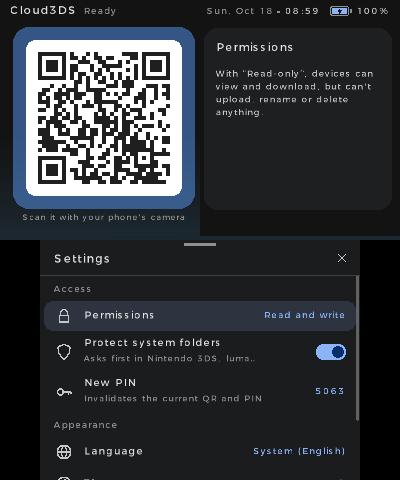
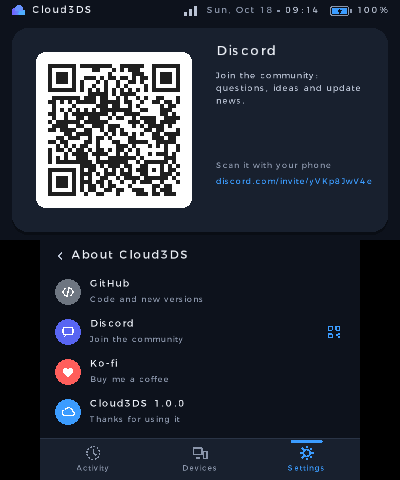
README: capturas y controles de la interfaz pulida
Capturas de la consola con el aspecto propio de Cloud3DS (inicio, subida en curso, actividad y «Acerca de» con su QR) y la tabla de controles con las pestañas.

diff --git a/README.md b/README.md
@@ -29,9 +29,9 @@ FTPD funciona, pero hay que instalar un cliente FTP, escribir la IP y el puerto 
 - **Seguro por defecto:** PIN nuevo en cada arranque, bloqueo tras varios intentos fallidos, modo **solo lectura** y confirmación antes de tocar carpetas del sistema (`Nintendo 3DS`, `luma/payloads`, `boot.firm`…).
 - **Sin sorpresas:** las subidas se escriben en un temporal y solo se renombran al terminar. Si se corta la conexión, no quedan archivos a medias. Avisa si no hay espacio o si el archivo pasa de 4 GB (límite de FAT32).
 - **Puedes cerrar la tapa:** mientras transfiere, la consola no se suspende y apaga la pantalla.
-- **En la consola:** el QR, la dirección y el PIN siempre a la vista, con las transferencias en directo al lado. Resumen del día, actividad, dispositivos conectados, permisos y ajustes en menús con el mismo estilo que [Gemi3DS](https://github.com/venomshine/Gemi3DS). Tema oscuro o claro, en español, inglés y japonés.
+- **En la consola:** el QR, la dirección y el PIN siempre a la vista, con las transferencias en directo al lado. Actividad, dispositivos conectados (con opción de expulsarlos) y ajustes en pestañas; en «Acerca de», los QR de GitHub, Discord y Ko-fi. Tema oscuro o claro, en español, inglés y japonés.
 
-<p align="center"><img src="docs/c_activity.png" width="400" alt="Actividad"> <img src="docs/c_settings.png" width="400" alt="Ajustes"></p>
+<p align="center"><img src="docs/c_activity.png" width="400" alt="Actividad"> <img src="docs/c_settings.png" width="400" alt="Acerca de"></p>
 <p align="center"><img src="docs/r_web_pc.png" width="820" alt="Cloud3DS en el navegador del PC"></p>
 
 ## Instalar
@@ -54,12 +54,10 @@ El móvil o el PC tienen que estar en la **misma red** que la consola. En alguna
 
 | Botón | Acción |
 |---|---|
-| X | Menú (actividad, dispositivos, ajustes, acerca de) |
-| A | Actividad |
-| Y | Dispositivos |
-| R | Permisos (lectura y escritura o solo lectura) |
+| L / R | Cambiar de pestaña (Actividad, Dispositivos, Ajustes) |
 | Cruceta | Moverse por las listas |
-| B | Cerrar (la pantalla de arriba vuelve al QR) |
+| A | Elegir |
+| B | Atrás (de Idioma o Acerca de a Ajustes) |
 | START | Salir |
 
 Todo se puede hacer también con la pantalla táctil.
